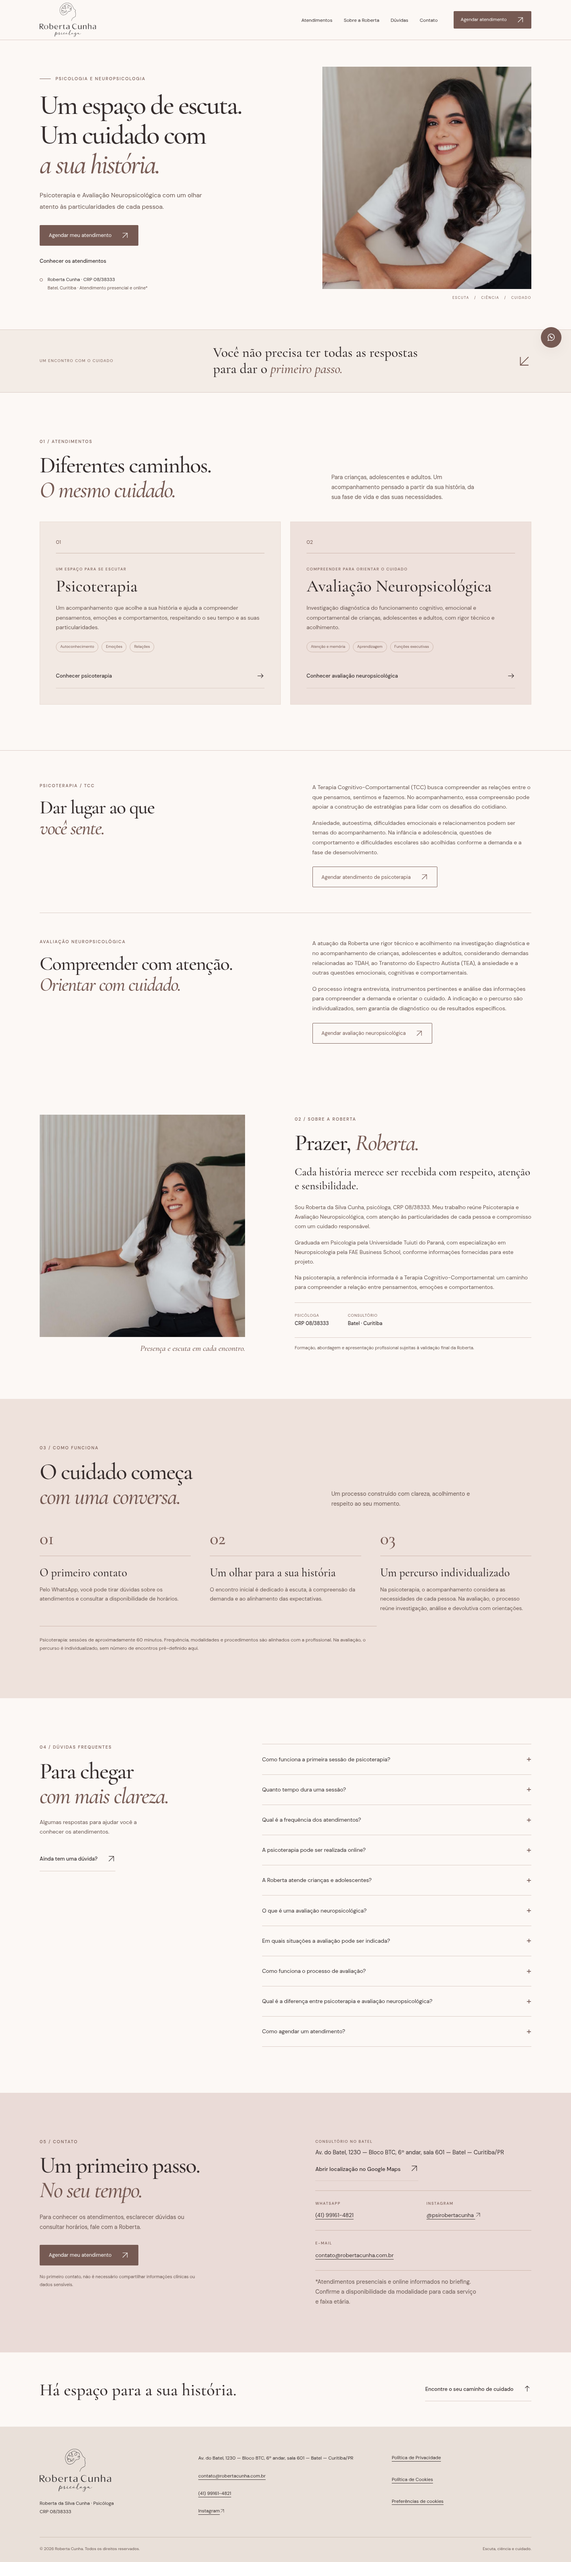
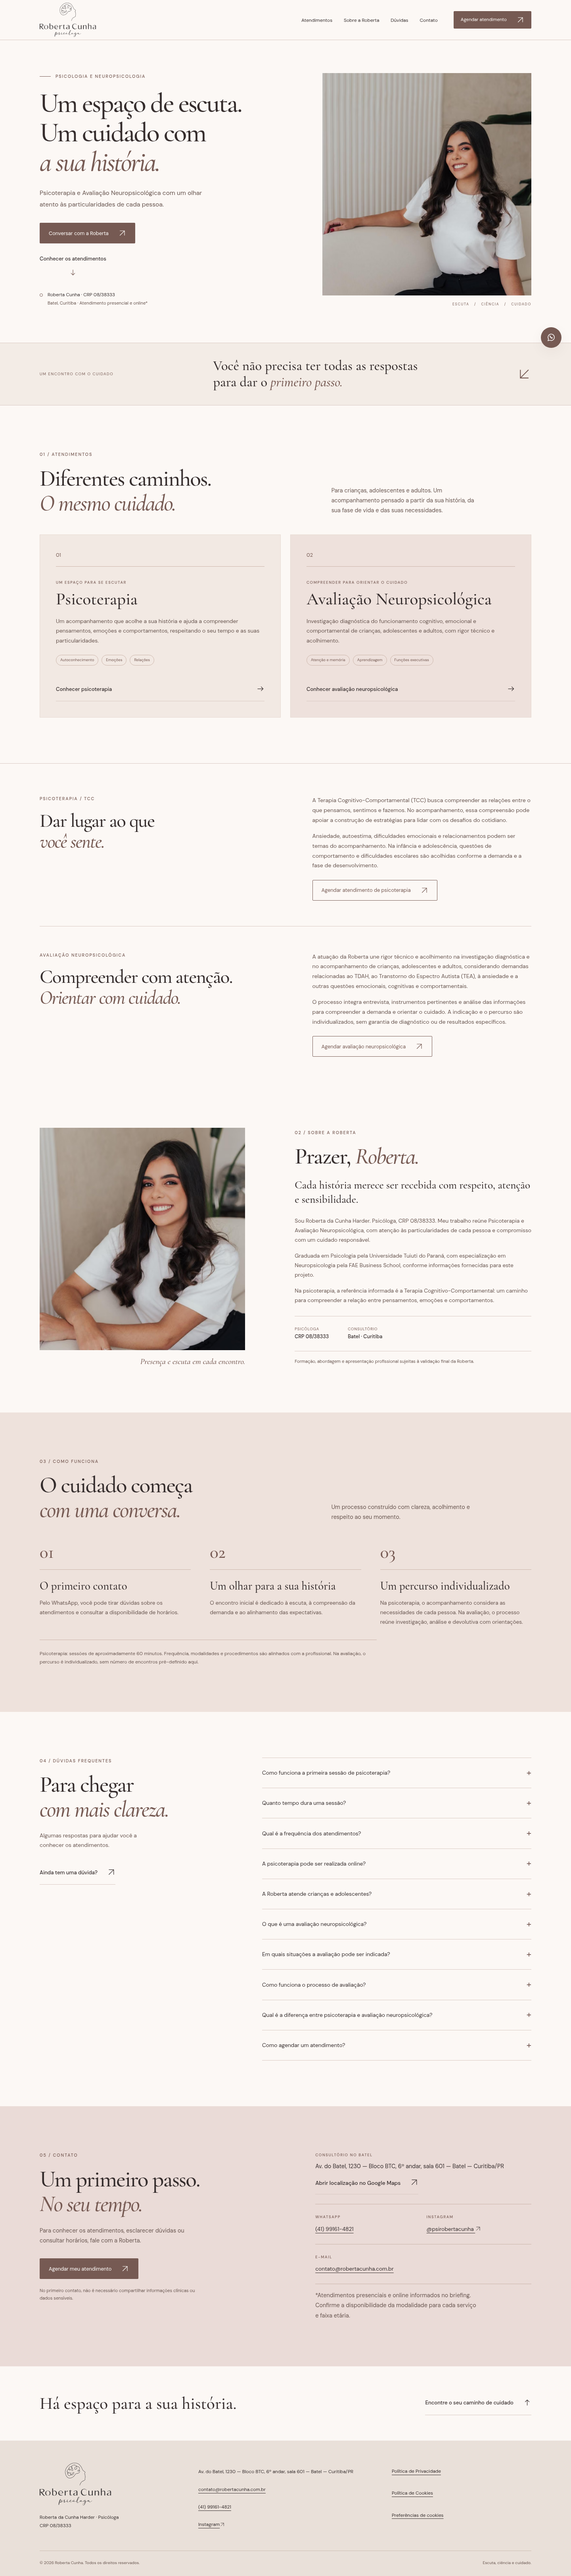
refactor: swap portraits and refine contact and FAQ copy

diff --git a/src/data/site.ts b/src/data/site.ts
@@ -2,7 +2,7 @@ export const site = {
   // Primeira versão pública para revisão; liberar indexação somente após aprovação.
   reviewMode: true,
   name: 'Roberta Cunha',
-  fullName: 'Roberta da Silva Cunha',
+  fullName: 'Roberta da Cunha Harder',
   crp: '08/38333',
   url: 'https://robertacunha.com.br',
   email: 'contato@robertacunha.com.br',
@@ -22,18 +22,6 @@ export const site = {
       height: 810,
     },
     hero: {
-      src: '/images/roberta-retrato-853.webp',
-      alt: 'Roberta Cunha sorrindo, sentada em uma poltrona no consultório',
-      width: 853,
-      height: 1280,
-      srcSet:
-        '/images/roberta-retrato-400.webp 400w, /images/roberta-retrato-640.webp 640w, /images/roberta-retrato-853.webp 853w',
-      avifSrcSet:
-        '/images/roberta-retrato-400.avif 400w, /images/roberta-retrato-640.avif 640w, /images/roberta-retrato-853.avif 853w',
-      sizes:
-        '(max-width: 700px) calc(100vw - 55px), (max-width: 1350px) 44vw, 530px',
-    },
-    about: {
       src: '/images/roberta-consultorio-853.webp',
       alt: 'Roberta Cunha sentada no sofá do consultório',
       width: 853,
@@ -42,6 +30,18 @@ export const site = {
         '/images/roberta-consultorio-400.webp 400w, /images/roberta-consultorio-640.webp 640w, /images/roberta-consultorio-853.webp 853w',
       avifSrcSet:
         '/images/roberta-consultorio-400.avif 400w, /images/roberta-consultorio-640.avif 640w, /images/roberta-consultorio-853.avif 853w',
+      sizes:
+        '(max-width: 700px) calc(100vw - 55px), (max-width: 1350px) 44vw, 530px',
+    },
+    about: {
+      src: '/images/roberta-retrato-853.webp',
+      alt: 'Roberta Cunha sorrindo, sentada em uma poltrona no consultório',
+      width: 853,
+      height: 1280,
+      srcSet:
+        '/images/roberta-retrato-400.webp 400w, /images/roberta-retrato-640.webp 640w, /images/roberta-retrato-853.webp 853w',
+      avifSrcSet:
+        '/images/roberta-retrato-400.avif 400w, /images/roberta-retrato-640.avif 640w, /images/roberta-retrato-853.avif 853w',
       sizes:
         '(max-width: 700px) calc(100vw - 55px), (max-width: 1350px) 44vw, 530px',
     },
@@ -139,19 +139,19 @@ export const faqs = [
   ],
   [
     'Quanto tempo dura uma sessão?',
-    'A duração informada para a sessão de psicoterapia é de aproximadamente 60 minutos. Confirme os detalhes no agendamento.',
+    'A duração de uma sessão de psicoterapia é de aproximadamente 60 minutos.',
   ],
   [
     'Qual é a frequência dos atendimentos?',
-    'A frequência é alinhada com a profissional, conforme a demanda e a indicação clínica. A proposta de acompanhamento inicialmente semanal ainda será validada pela Roberta.',
+    'A frequência dos encontros é combinada com a Roberta, considerando suas necessidades e a indicação clínica. Esse ritmo pode ser ajustado ao longo do acompanhamento.',
   ],
   [
     'A psicoterapia pode ser realizada online?',
-    'O briefing prevê atendimentos presenciais e online. A disponibilidade de cada modalidade por serviço e faixa etária precisa ser confirmada com a profissional.',
+    'Sim! Os atendimentos de psicoterapia são realizados tanto presencialmente, em Curitiba, quanto online.',
   ],
   [
     'A Roberta atende crianças e adolescentes?',
-    'O público informado inclui crianças, adolescentes e adultos. A adequação do serviço e da modalidade para cada demanda será confirmada no contato inicial.',
+    'Sim! A Roberta realiza atendimentos para crianças, adolescentes e adultos, considerando as particularidades e necessidades de cada fase da vida.',
   ],
   [
     'O que é uma avaliação neuropsicológica?',
@@ -163,7 +163,7 @@ export const faqs = [
   ],
   [
     'Como funciona o processo de avaliação?',
-    'A proposta editorial inclui entrevista inicial, investigação com instrumentos pertinentes, análise integrada e devolutiva com orientações. Procedimentos e documentação serão definidos pela profissional; não há prazo ou número de encontros pré-fixado neste site.',
+    'O processo envolve entrevista inicial, investigação com instrumentos pertinentes, análise integrada das informações e devolutiva com orientações. As etapas, a duração e a documentação são definidas pela Roberta de acordo com as necessidades de cada avaliação.',
   ],
   [
     'Qual é a diferença entre psicoterapia e avaliação neuropsicológica?',

diff --git a/src/styles/global.css b/src/styles/global.css
@@ -1245,10 +1245,10 @@ body:has(.cookie-panel:not([hidden])) .floating-contact {
   object-fit: contain;
 }
 .portrait.hero {
-  object-position: 50% 28%;
+  object-position: 58% 28%;
 }
 .portrait.about {
-  object-position: 58% 28%;
+  object-position: 50% 28%;
 }
 @media (max-width: 959px) {
   .wordmark img {
@@ -1283,4 +1283,23 @@ picture {
 }
 summary > span {
   transition: transform var(--ease);
+}
+
+.hero-explore {
+  display: inline-flex;
+  flex-direction: column;
+  align-items: flex-start;
+}
+.hero-scroll {
+  display: grid;
+  place-items: center;
+  align-self: center;
+  min-width: 44px;
+  min-height: 44px;
+  color: var(--brown);
+  text-decoration: none;
+  transition: color var(--ease);
+}
+.hero-scroll:hover {
+  color: var(--ink);
 }

diff --git a/tests/site.spec.ts b/tests/site.spec.ts
@@ -164,7 +164,7 @@ test('metadados, âncoras e páginas complementares', async ({
     JSON.parse(
       await page.locator('script[type="application/ld+json"]').innerText(),
     ).name,
-  ).toBe('Roberta da Silva Cunha');
+  ).toBe('Roberta da Cunha Harder');
   const anchors = await page
     .locator('a[href^="#"],a[href^="/#"]')
     .evaluateAll((items) =>

diff --git a/docs/TESTES.md b/docs/TESTES.md
@@ -77,3 +77,11 @@ Texto da avaliação revisado a pedido da cliente, incluindo investigação diag
 `ScrollReveal.astro` usa IntersectionObserver e Web Animations API, sem bibliotecas: entrada de 550 ms, deslocamento de 14 px e atraso progressivo de até 130 ms. A primeira dobra não é ocultada. Sem JavaScript ou APIs de animação, o conteúdo permanece visível. Alterar a preferência para movimento reduzido cancela os efeitos ativos; foco por teclado finaliza a animação do elemento para mantê-lo legível.
 
 Validação desta revisão: build e tipos aprovados, **14 testes aprovados em 20,3 s**. Os 12 fluxos existentes continuam passando e dois novos testes verificam animações reais e movimento reduzido em 390 e 1440 px. Auditorias Axe e capturas estáticas são executadas com movimento reduzido, evitando amostrar estados transitórios de opacidade; o comportamento em movimento é testado separadamente. Nenhuma violação Axe detectada nos estados estáveis verificados. Não foi executado novo Lighthouse nesta revisão; os relatórios anteriores são históricos.
+
+## Troca de retratos, identificação e FAQ
+
+Retratos invertidos entre hero e Sobre com os mesmos arquivos responsivos e pontos focais acompanhando cada foto. CTA da hero alterado para “Conversar com a Roberta”, mantendo o destino e a mensagem do WhatsApp. Seta independente com área de toque de 44 px abaixo de “Conhecer os atendimentos”, vinculada a `#servicos`; a rolagem respeita movimento reduzido.
+
+Nome corrigido para Roberta da Cunha Harder no cadastro central e na apresentação. Mantida a frase sobre respeito, atenção e sensibilidade. FAQ revisado para comunicação direta, sem referências ao briefing ou validação editorial; duração, modalidades de psicoterapia e público seguem os textos solicitados, sem acrescentar serviços.
+
+Build, tipos e 14 testes aprovados (19,7 s), incluindo oito larguras, Axe em estados estáveis, movimento reduzido e funcionamento sem JavaScript. Capturas de hero e Sobre atualizadas em desktop/mobile. Não foi executado novo Lighthouse nesta revisão.

diff --git a/docs/DESIGN.md b/docs/DESIGN.md
@@ -24,9 +24,9 @@ Menu mobile com estado expandido, Escape e gestão de foco. FAQ em `details/summ
 
 ## Ativos originais
 
-Fotografias reais e marca original fornecidas em `Arquivo 2.zip`, incorporadas em 5 de novembro de 2026. Retrato próximo na hero e retrato no sofá em Sobre, com versões responsivas AVIF/WebP. Logo escuro original no cabeçalho e rodapé, sem recoloração, recorte ou distorção; a versão branca é preservada para uso futuro. Favicon derivado da submarca original apenas por redimensionamento com margem transparente.
+Fotografias reais e marca original fornecidas em `Arquivo 2.zip`, incorporadas em 5 de novembro de 2026. Retrato no sofá na hero e retrato próximo em Sobre, com versões responsivas AVIF/WebP. Logo escuro original no cabeçalho e rodapé, sem recoloração, recorte ou distorção; a versão branca é preservada para uso futuro. Favicon derivado da submarca original apenas por redimensionamento com margem transparente.
 
-A hero usa enquadramento em `50% 28%` e o retrato de Sobre em `58% 28%`. A exibição foi revisada em desktop e mobile. Nenhum rosto ou marca foi recriado por IA. O arquivo social dedicado e a aprovação final de uso/recortes ainda precisam ser confirmados.
+A hero usa enquadramento em `58% 28%` e o retrato de Sobre em `50% 28%`. A exibição foi revisada em desktop e mobile. Nenhum rosto ou marca foi recriado por IA. O arquivo social dedicado e a aprovação final de uso/recortes ainda precisam ser confirmados.
 
 ## Movimento
 

diff --git a/README.md b/README.md
@@ -40,8 +40,8 @@ Os dados de contato permanecem centralizados. Textos estruturais da landing pode
 
 As fotografias e a marca original foram recebidas em `Arquivo 2.zip`. Os cinco arquivos originais estão preservados em `src/assets/originals/`. Não foram alterados rostos, cores ou proporções da marca.
 
-- Hero: retrato próximo (`05163b2b-601a-4a90-a08e-060376786732.JPG`).
-- Sobre: retrato no sofá (`d9ea6497-f289-4c11-bed5-2d9072fa23c3.JPG`).
+- Hero: retrato no sofá (`d9ea6497-f289-4c11-bed5-2d9072fa23c3.JPG`).
+- Sobre: retrato próximo (`05163b2b-601a-4a90-a08e-060376786732.JPG`).
 - Retratos em `public/images/`: AVIF (qualidade 65) e WebP (qualidade 86), com larguras 400, 640 e 853 px, sem ampliação. Dimensões originais: 853 × 1280 px.
 - Marca em `public/brand/`: PNGs originais escuro, branco e submarca, copiados sem alteração. A versão escura é usada no cabeçalho e rodapé; a branca fica disponível para usos futuros.
 - Favicon: derivado de 64 × 64 px da submarca original, sem recorte ou redesenho, com transparência preservada.
